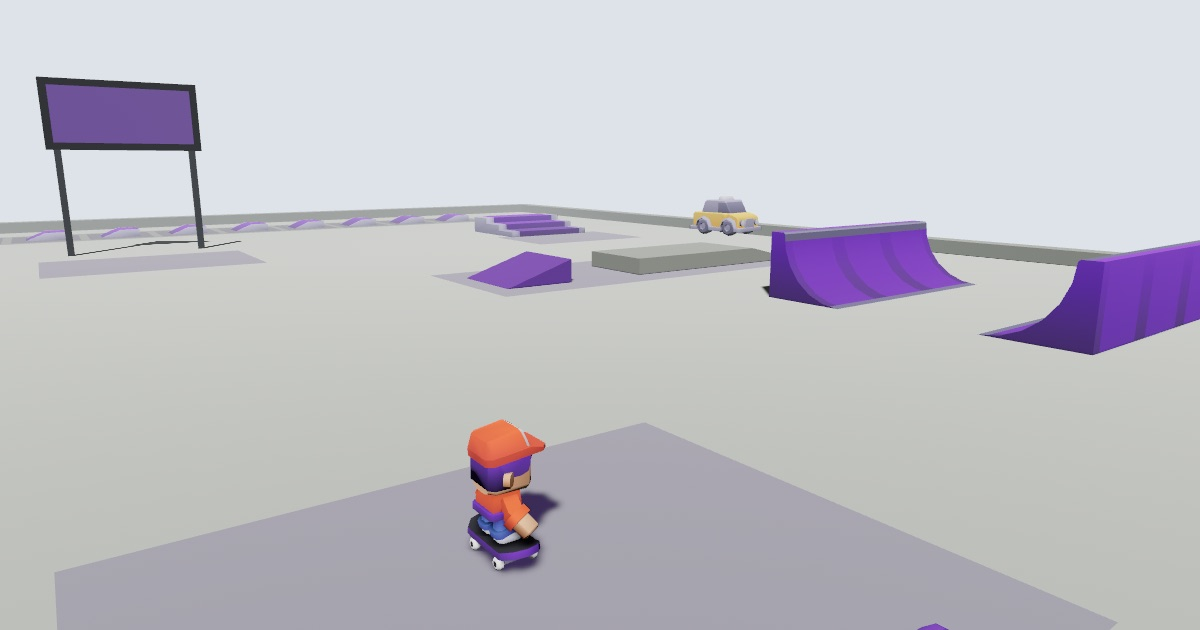
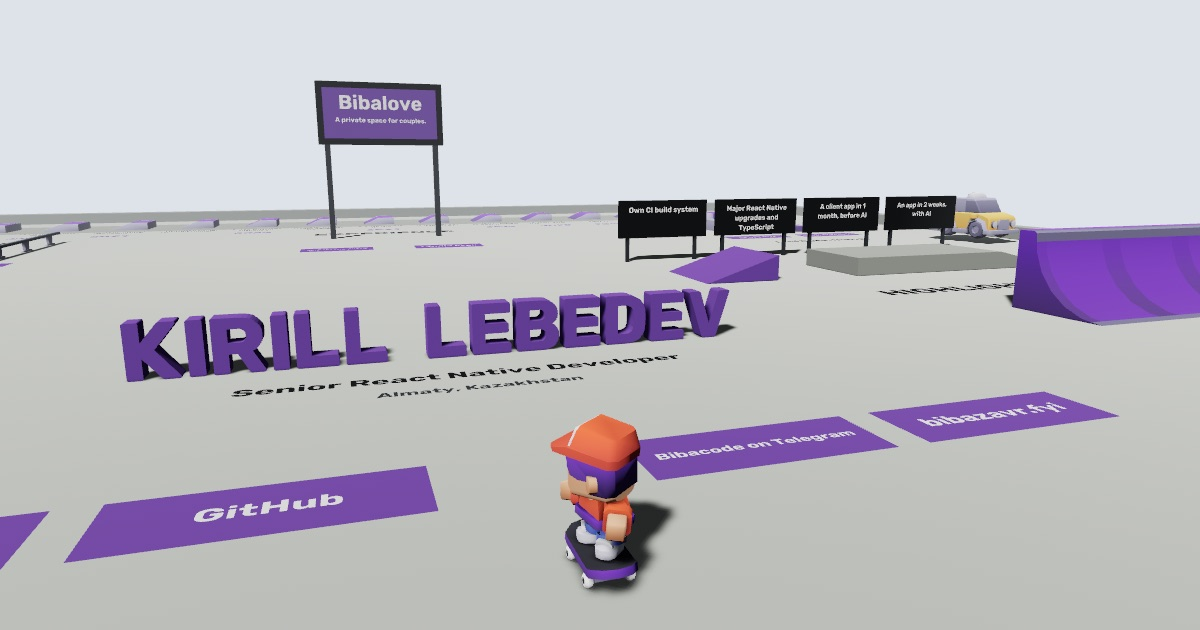
Frame the name in the social preview
The default og-image camera now looks past the skater at the name, and
static/og.jpg is rendered from it.

diff --git a/crates/plaza/src/og_image.rs b/crates/plaza/src/og_image.rs
@@ -32,9 +32,9 @@ struct Shot {
     frames: u32,
 }
 
-/// Behind and above the start, looking across the plaza toward the halfpipe.
+/// Behind and above the start, looking past the skater at the name.
 fn preview_camera() -> Transform {
-    Transform::from_xyz(-3.5, 4.0, 27.0).looking_at(Vec3::new(6.0, 0.8, 14.0), Vec3::Y)
+    Transform::from_xyz(-2.0, 3.6, 26.5).looking_at(Vec3::new(2.5, 0.8, 13.0), Vec3::Y)
 }
 
 /// The pose after `--camera`, as `x,y,z,tx,ty,tz`.
